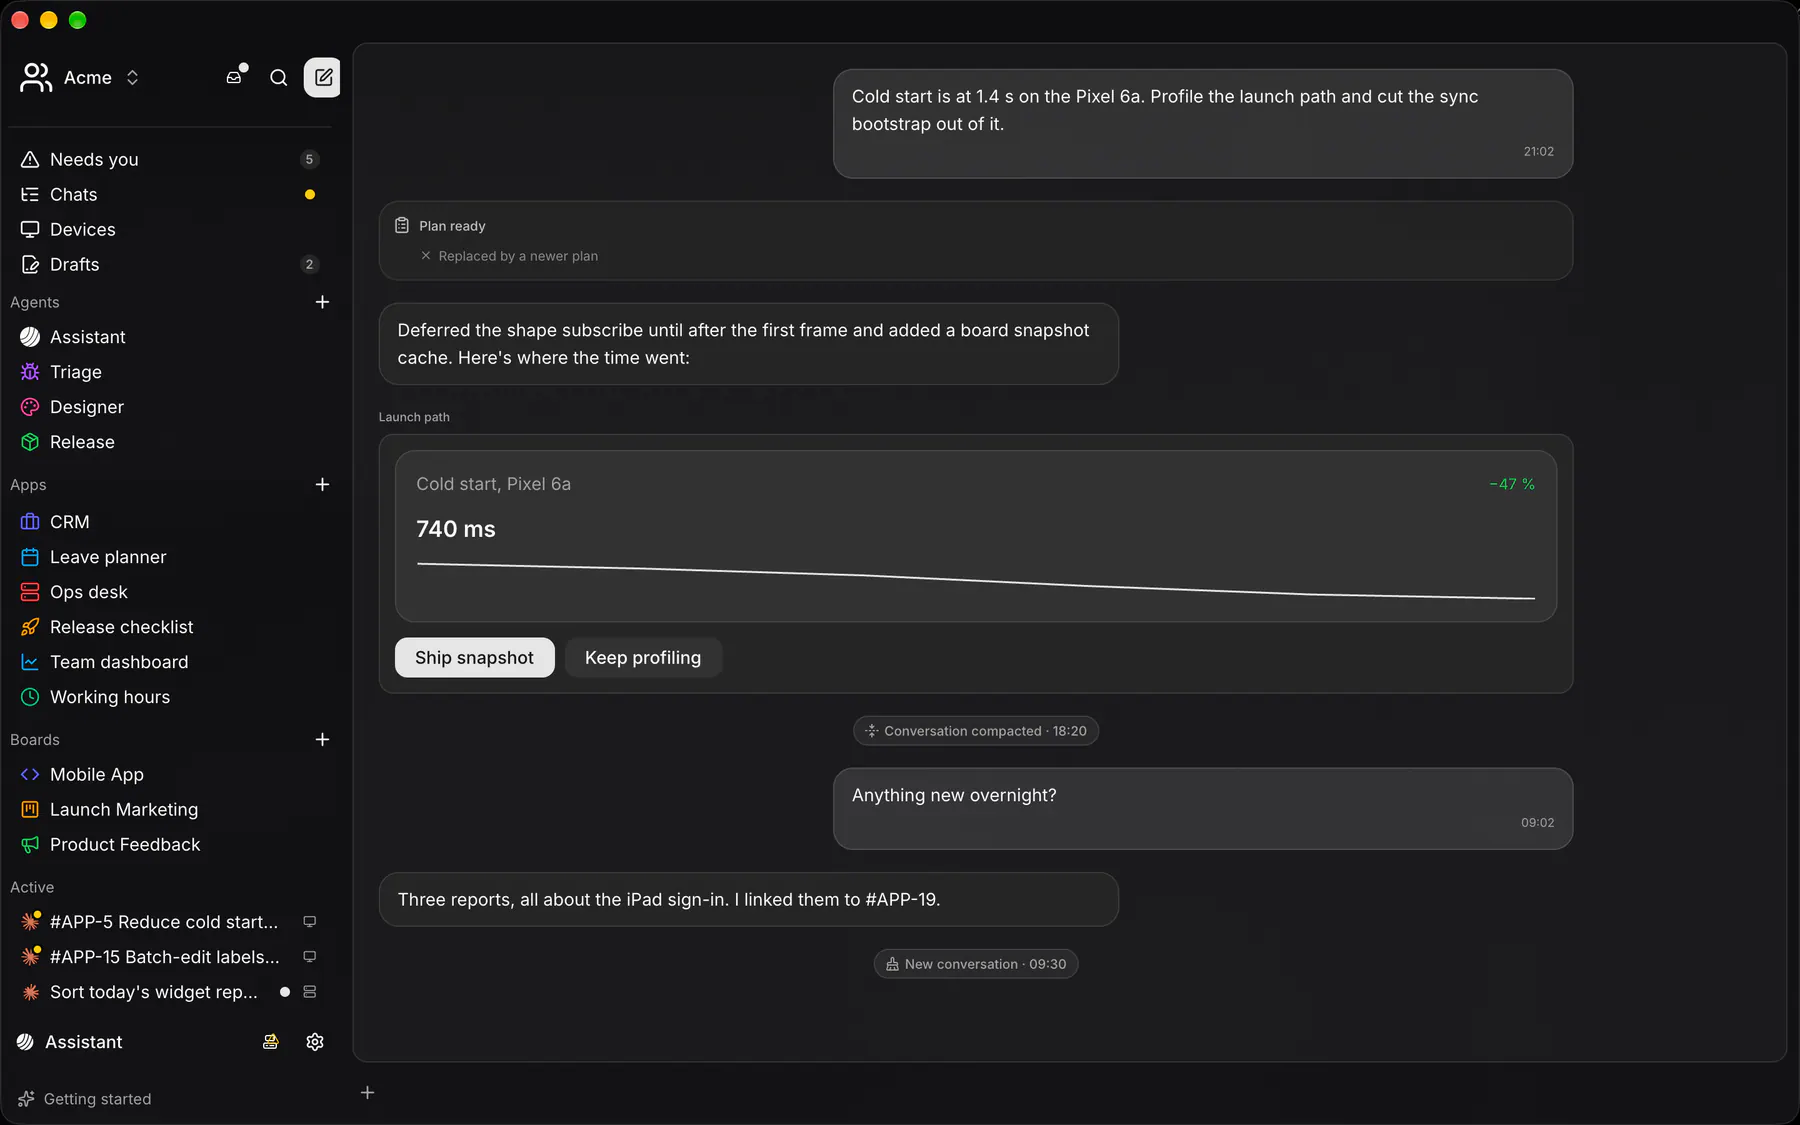
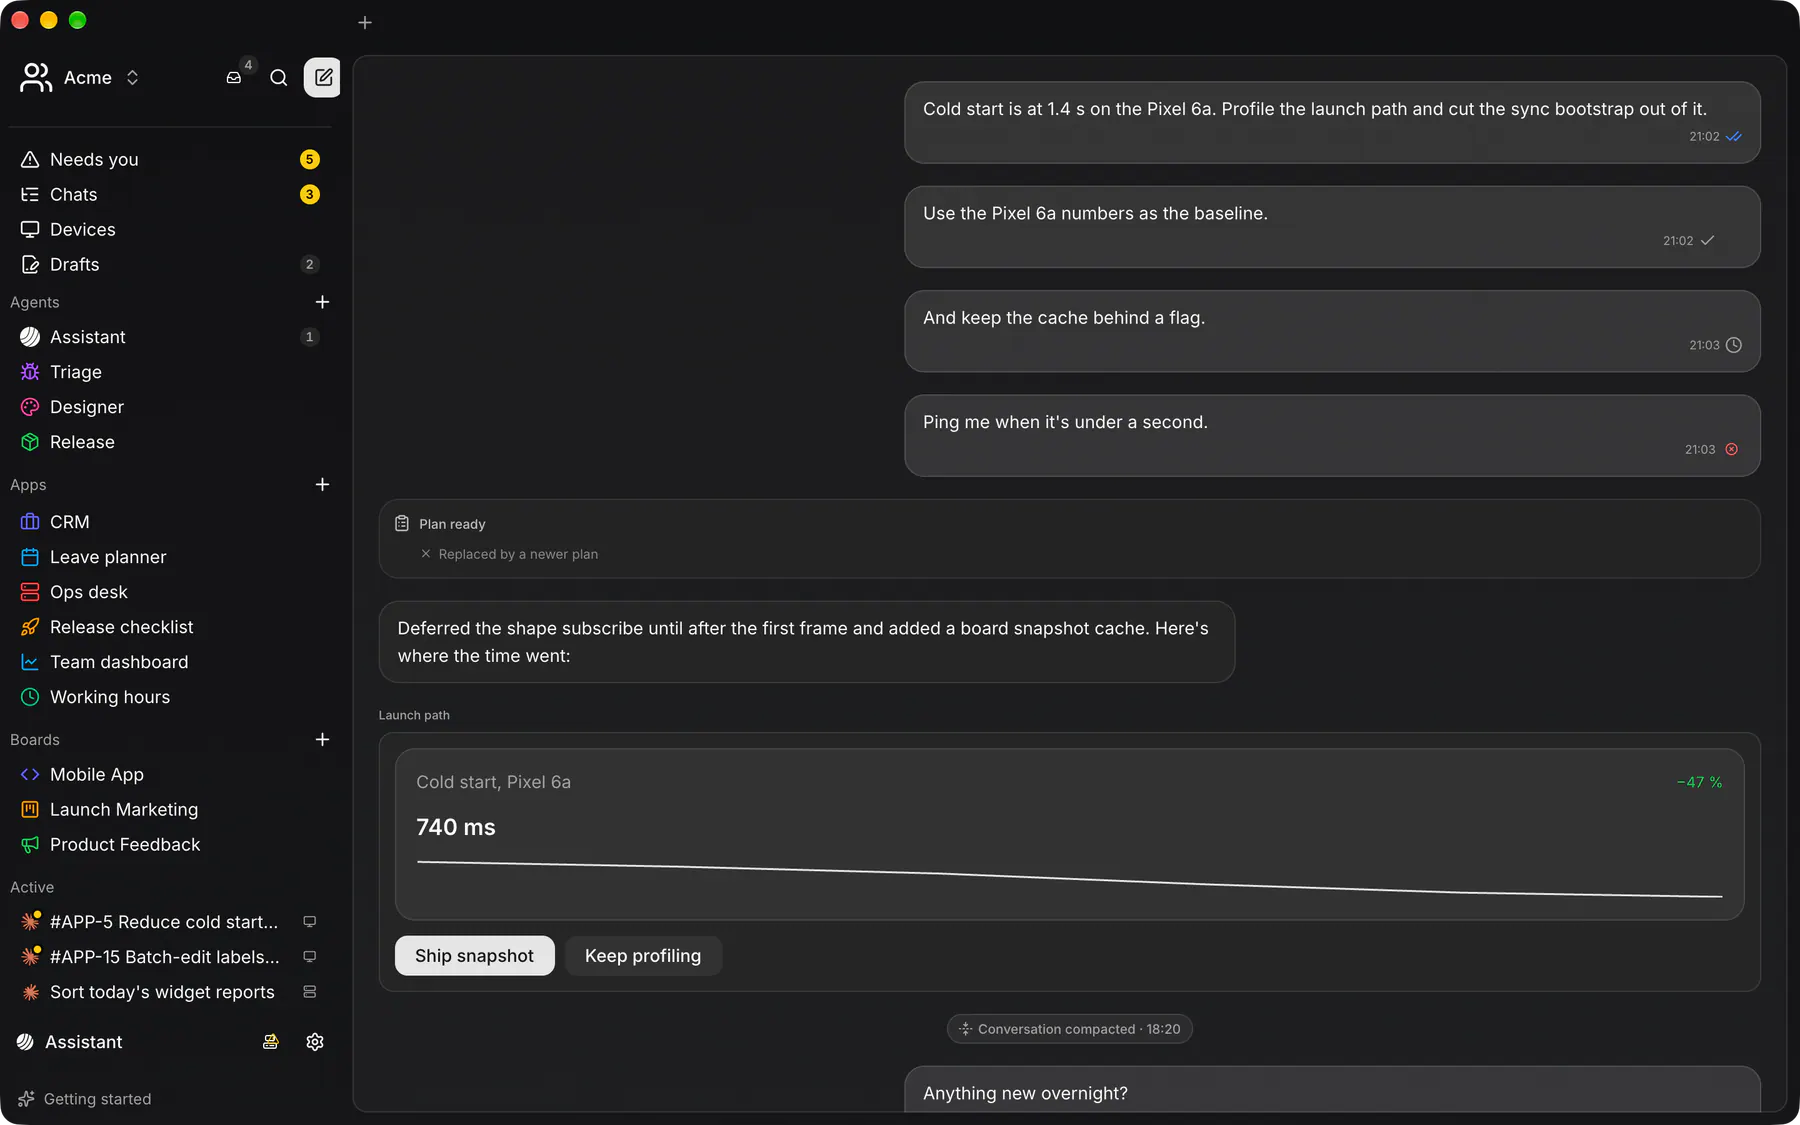
FEED-237 desktop: chat-transcript shot with the delivery marks; the specimen column is bounded (max_w), not fixed to the 1600 token
Swift genUI: MessageStatus + MessageBubble failed snapshots verified on macOS (EXPONENTIAL_UI_RECORD=1 left components.json unchanged).

diff --git a/apps/desktop/crates/ui/src/specimens/entries/chat_transcript.rs b/apps/desktop/crates/ui/src/specimens/entries/chat_transcript.rs
@@ -209,7 +209,9 @@ pub(crate) fn render(window: &mut Window, cx: &mut App) -> Div {
     }
     v_flex()
         // #EXP-1547: THE chat column's content box (the token inside the gutter).
-        .w(px(crate::work_header::CHAT_COLUMN_W - 2. * crate::work_header::WORK_GUTTER))
+        // Bounded, not fixed: the 1600 token is wider than the capture window.
+        .w_full()
+        .max_w(px(crate::work_header::CHAT_COLUMN_W - 2. * crate::work_header::WORK_GUTTER))
         .gap_5()
         .children(rows)
 }
